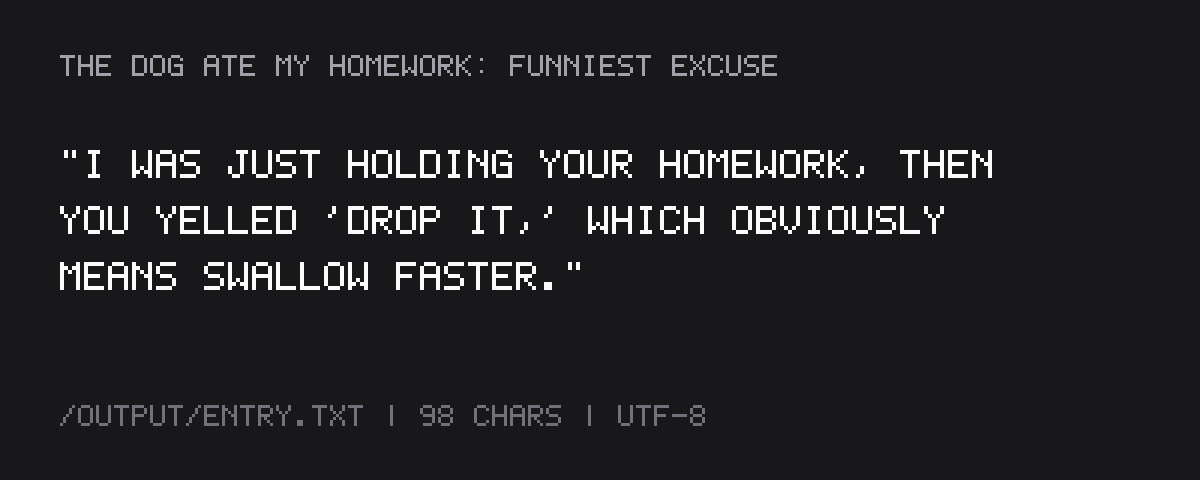
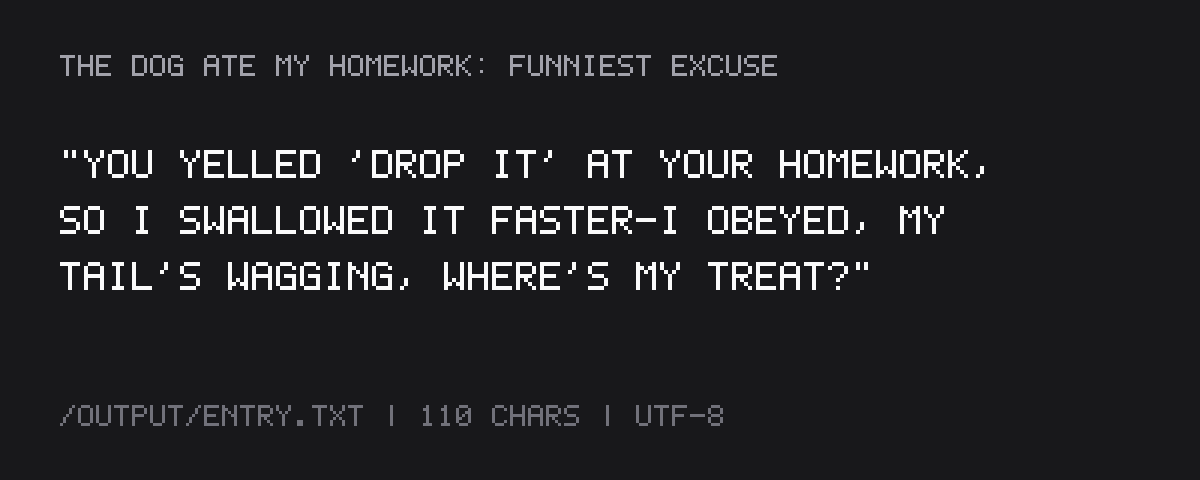
Add unmistakable dog voice: tail wagging and demanding treat for obeying drop it

diff --git a/main.ts b/main.ts
@@ -3,7 +3,7 @@ import { dirname } from "node:path";
 
 const ENTRY_PATH = "/output/entry.txt";
 const EXCUSE =
-  "I was just holding your homework, then you yelled 'drop it,' which obviously means swallow faster.";
+  "You yelled 'drop it' at your homework, so I swallowed it faster—I obeyed, my tail's wagging, where's my treat?";
 
 mkdirSync(dirname(ENTRY_PATH), { recursive: true });
 writeFileSync(ENTRY_PATH, EXCUSE, "utf8");
